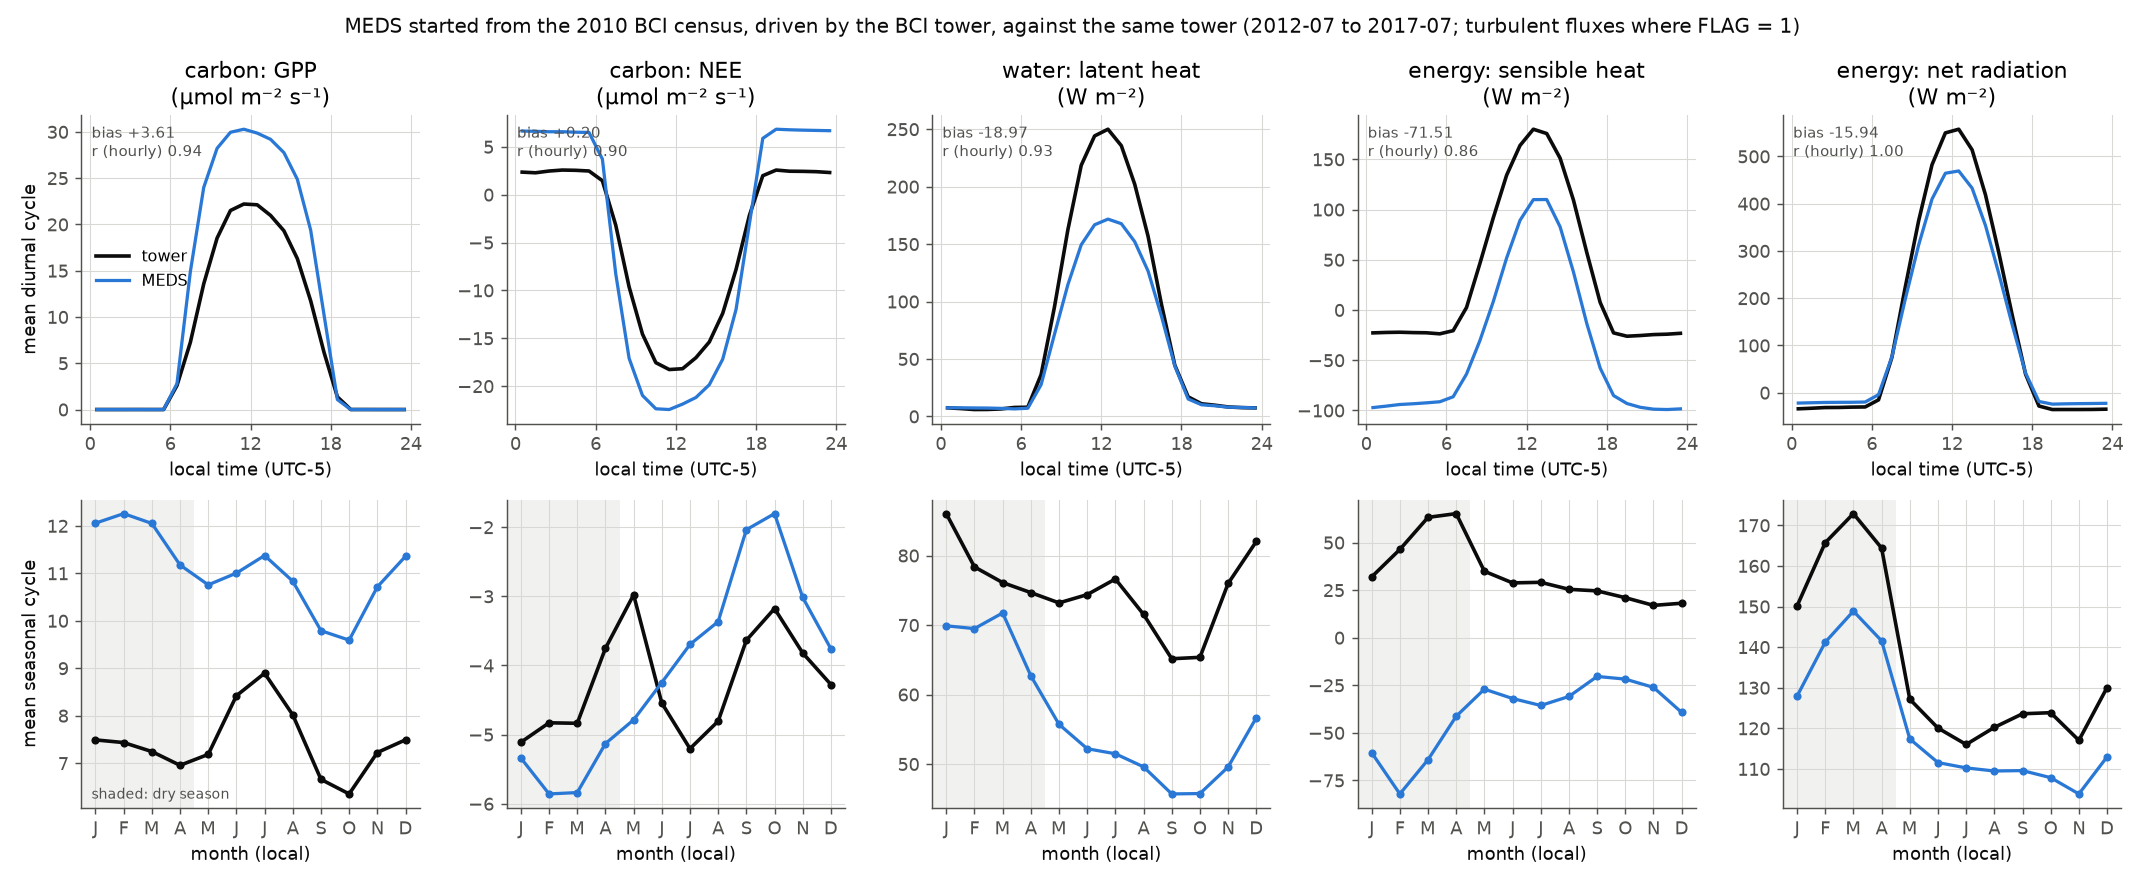
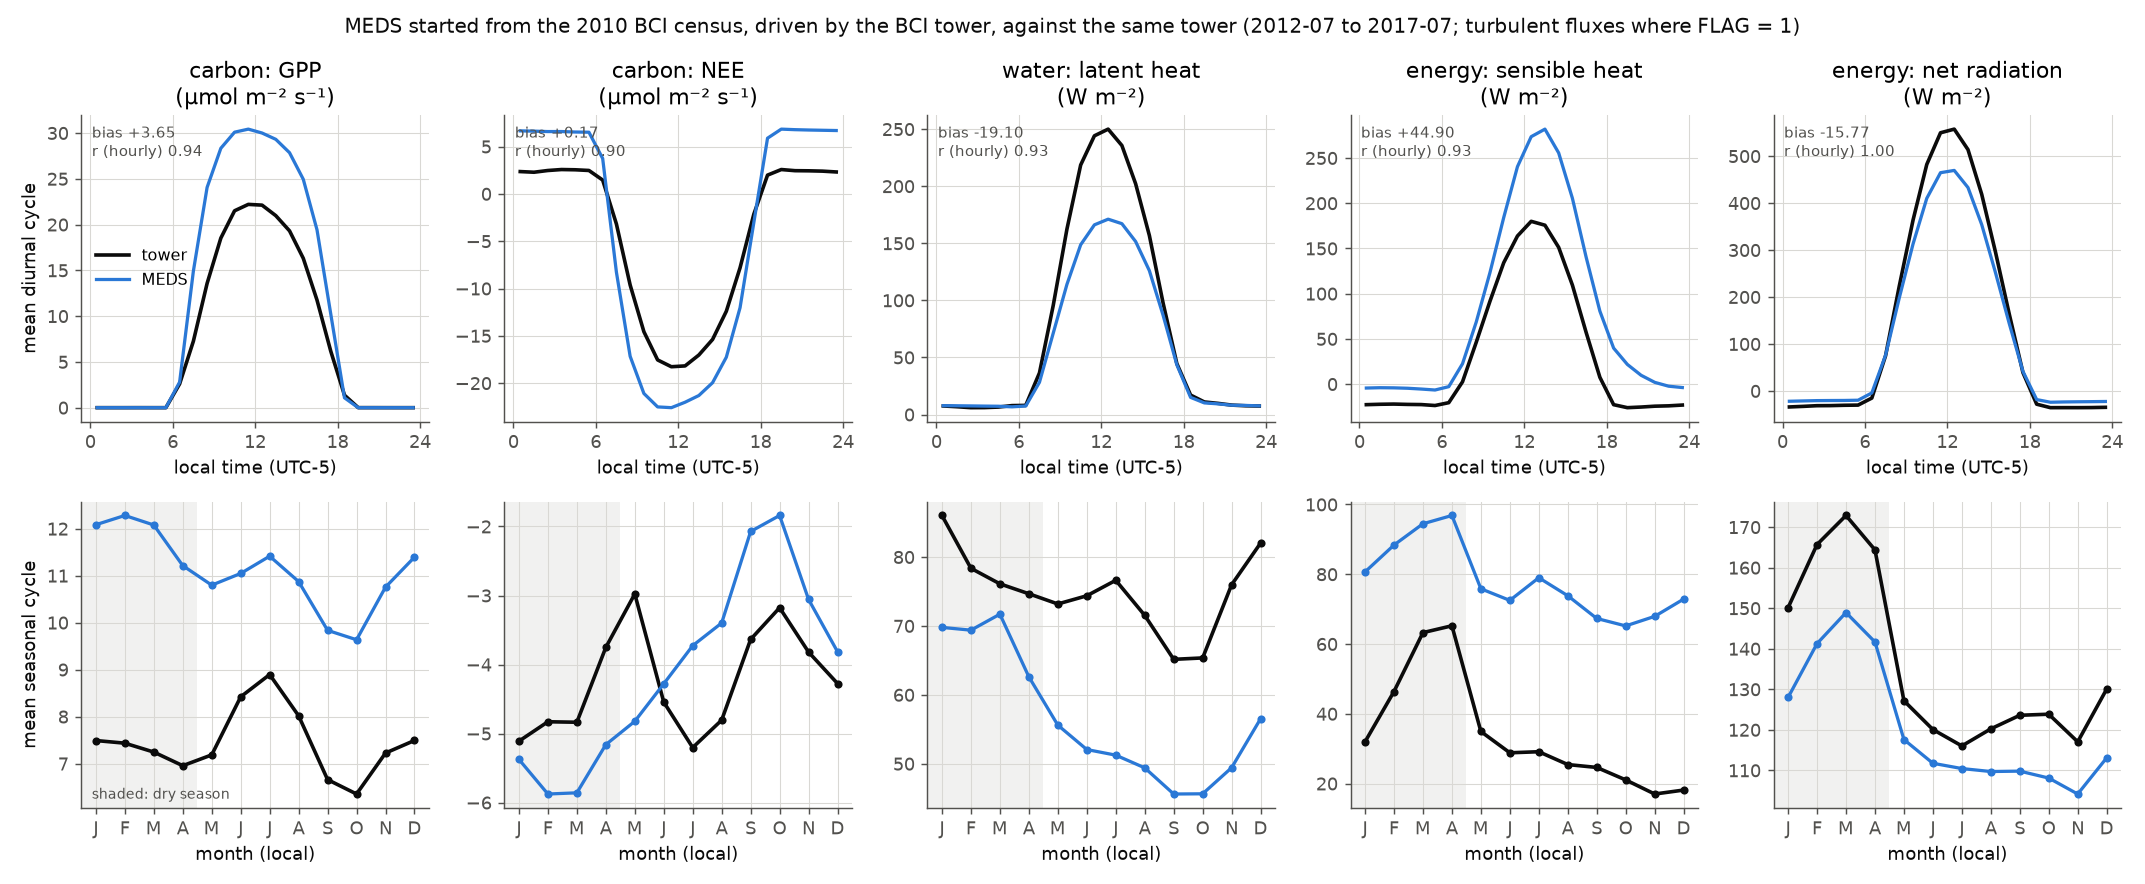
fix(aero): reference both potential temperatures to the canopy-air top
The reference air's potential temperature was T + (g/cp)*zref, referenced
to the ground; the canopy air's was its actual temperature; and the canopy
air's energy budget exchanged heat on the two actual temperatures. So the
reported sensible heat, g_ah*cp*(T_cas - theta_atm), sat g_ah*g*zref below
the flux the budget booked, and every Monin-Obukhov solve saw (g/cp)*zref of
stable stratification that was not there.

zref is the canopy-air top, where met_to_cas_top moves the forcing, so both
potential temperatures are now referenced to it: theta_atm is the air
temperature there. The budgets closed before and still do.

On the five-year BCI census example the mean sensible heat goes from -39.1
to 77.3 W m-2 (tower 32.4), night-time from -95.5 to -0.1 (tower -23.6), and
its seasonal correlation from -0.59 to 0.95. Rnet - H - LE over the five
years falls from +104.6 to -11.4 W m-2. GPP, NEE, latent heat and net
radiation move by less than 1%. The README's results now describe the real
miss, the partition: a midday Bowen ratio of 1.5 against the tower's 0.69.

Tests: test_column_dynamics RUN 5b (neutral surface layer at equal
temperatures; a dark isothermal column reports |H| < 5% of g_ah*g*zref under
ARK and RK45). All four checks fail with the old line.

diff --git a/examples/example_flux_tower_bci/README.md b/examples/example_flux_tower_bci/README.md
@@ -145,7 +145,7 @@ as the census file states, and fuses it to 25 patches and 419 cohorts before the
 count stays above `max_patch = 12` because `patch_light_tol_max` keeps dissimilar patches apart,
 and the run says so at the end. The energy and water budgets close to machine precision.
 
-**The stand over the five years:** LAI falls from 5.6 to 4.8 and AGB rises from 16.1 to 17.5 kgC m⁻²,
+**The stand over the five years:** LAI falls from 5.6 to 4.8 and AGB rises from 16.1 to 17.6 kgC m⁻²,
 and the patches fuse down to 15. The large trees grow and the canopy thins; small trees do not grow
 under this PFT with the default allometry.
 
@@ -153,29 +153,39 @@ under this PFT with the default allometry.
 
 | | tower mean | MEDS mean | bias | r, hourly | r, mean seasonal cycle |
 |---|---|---|---|---|---|
-| GPP [µmol m⁻² s⁻¹] | 7.46 | 11.07 | +3.61 | 0.94 | 0.43 |
-| NEE [µmol m⁻² s⁻¹] | −4.24 | −4.04 | +0.20 | 0.90 | 0.45 |
-| latent heat [W m⁻²] | 75.5 | 56.5 | −19.0 | 0.93 | 0.69 |
-| sensible heat [W m⁻²] | 32.4 | −39.1 | −71.5 | 0.86 | −0.59 |
-| net radiation [W m⁻²] | 136.3 | 120.4 | −16.0 | 1.00 | 0.98 |
+| GPP [µmol m⁻² s⁻¹] | 7.46 | 11.11 | +3.65 | 0.94 | 0.43 |
+| NEE [µmol m⁻² s⁻¹] | −4.24 | −4.07 | +0.17 | 0.90 | 0.45 |
+| latent heat [W m⁻²] | 75.5 | 56.4 | −19.1 | 0.93 | 0.69 |
+| sensible heat [W m⁻²] | 32.4 | 77.3 | +44.9 | 0.93 | 0.95 |
+| net radiation [W m⁻²] | 136.3 | 120.6 | −15.8 | 1.00 | 0.98 |
 
 - **The diurnal cycles** are closely followed in shape (r ≥ 0.99 for every flux) and differ in size.
-  Midday GPP is 30 against the tower's 22 µmol m⁻² s⁻¹, and midday latent heat 164 against 237 W m⁻².
+  Midday GPP is 30 against the tower's 22 µmol m⁻² s⁻¹, and midday latent heat 163 against 237 W m⁻².
 - **Net radiation falls short by day because the canopy reflects too much.** Over the 695 days the
   tower measured all four components, the model's albedo is 0.26 against the tower's 0.13: it
   absorbs 148 W m⁻² of shortwave where the tower's canopy absorbs 173. It emits 10 W m⁻² less
   longwave, which offsets part of that. At night the model reads −22 W m⁻² against the tower's −33.
-- **Sensible heat is the largest miss:** −96 W m⁻² at night against the tower's −23, and 90 at
-  midday against 163. The census canopy is taller than the tower: the canopy-air tops reach 51 m in
-  the tallest patches, above the tower's 41 m, so those patches take forcing moved up from below
-  their own top. Whether that explains the flux is not yet checked.
-- **The seasonal cycles** are weaker: the model's GPP is highest in the dry season, the tower's early
-  in the wet season, and the model's dry-season sensible heat falls where the tower's rises.
+- **The model puts too much of the day's energy into sensible heat and too little into
+  evaporation.** At midday sensible heat is 244 W m⁻² against the tower's 163, and latent heat 163
+  against 237: a Bowen ratio of 1.5 against 0.69. At night sensible heat is near zero against the
+  tower's −24. The tower's own fluxes close only 0.77 of its net radiation, so part of the gap in
+  latent heat is the tower's. The model's friction velocity is about twice the tower's: 0.87 against
+  0.41 m s⁻¹ at night, and 1.0 against 0.6 by day.
+- **The seasonal cycles:** sensible heat follows the tower's, highest in the dry season (r 0.95). GPP
+  is highest in the dry season where the tower's peaks early in the wet season, and latent heat falls
+  through the wet season, to 46 W m⁻², where the tower's stays between 65 and 86.
 
 **Before the longwave columns were corrected** the forcing carried the canopy's emission, 37 W m⁻²
 more than the sky's. That hid the albedo error: net radiation looked right by day (bias +16.7
-overall), night-time net radiation was +6 against the tower's −33, and sensible heat was biased
-−46 W m⁻².
+overall), and night-time net radiation was +6 against the tower's −33.
+
+**Before v0.3.1 the reported sensible heat was about 105 W m⁻² too low.** It measured the canopy air
+against the reference air's potential temperature referenced to the ground, 0.37 K above its actual
+temperature at a 38 m canopy-air top, while the model exchanged heat on the actual temperatures. The
+example then showed a sensible heat of −39 W m⁻², negative at every hour of the night, and the
+reported fluxes left 105 W m⁻² of the net radiation unaccounted for. The same offset made every
+stability solve 0.37 K more stable than the air was. Removing it raised the night-time friction
+velocity from 0.78 to 0.87 m s⁻¹ and moved GPP, NEE, latent heat and net radiation by less than 1%.
 
 ## Files
 

diff --git a/CHANGELOG.md b/CHANGELOG.md
@@ -264,6 +264,36 @@ the top 0.37 m instead of 53%. Delete it to keep the default.
 
 ### Fixed
 
+- **The reported sensible heat was about 100 W m⁻² too low, and every surface-layer solve too
+  stable** (#PRNUM). The reference air's potential temperature was referenced to the ground,
+  `T + (g/cp)·zref`, and the canopy air's was not, while the canopy air's energy budget exchanged heat
+  on the two actual temperatures. So the reported H, `g_ah·cp·(T_cas − θ_atm)`, sat
+  `g_ah·g·zref` below the flux the budget booked, and the Monin–Obukhov solve saw `(g/cp)·zref`
+  (0.37 K at a 38 m canopy-air top) of stable stratification that was not there. Both potential
+  temperatures are now referenced to `zref`, the canopy-air top the forcing is moved to, so each is
+  its actual temperature there (`set_aero_env_atm`; `canopy_aerodynamics.md` §2). The budgets closed
+  before and still do. Every H MEDS reported before this fix is low by `g_ah·g·zref`, with zref the
+  fixed reference height (30 m by default) before 774d040 moved the forcing to each patch's
+  canopy-air top, and that top since.
+  - On the five-year BCI census example:
+
+    | | before | after | tower |
+    |---|---|---|---|
+    | sensible heat, mean [W m⁻²] | −39.1 | 77.3 | 32.4 |
+    | sensible heat, night (19–05 h) | −95.5 | −0.1 | −23.6 |
+    | sensible heat, midday (10–14 h) | 89.7 | 244.2 | 163.0 |
+    | sensible heat, r hourly / r seasonal | 0.86 / −0.59 | 0.93 / 0.95 | |
+    | Rnet − H − LE, all hours, five-year mean | +104.6 | −11.4 | |
+    | friction velocity, night [m s⁻¹] | 0.78 | 0.87 | 0.41 |
+
+    GPP, NEE, latent heat and net radiation move by less than 1%. The miss the example shows is now
+    the partition, not the sign: a midday Bowen ratio of 1.5 against the tower's 0.69, and the
+    README says so.
+  - Tests: `test_column_dynamics` RUN 5b checks that canopy air at the reference air's temperature
+    and humidity is a neutral surface layer with no temperature scale, and that a dark isothermal
+    column reports |H| under 5% of `g_ah·g·zref` under both integrators (−0.4 against 26 W m⁻²).
+    With the old line restored all four checks fail, at H = −16.9 W m⁻².
+
 - **The tissue energy balance gave every leaf and all wood an emissivity of 0.95** (#327). The
   radiation solver takes each PFT's `leaf_emissivity` (0.97 by default) and `wood_emissivity` (0.90) and
   emits at the canopy-air temperature. The energy balance then adds the change in emission for the

diff --git a/docs/science/canopy_aerodynamics.md b/docs/science/canopy_aerodynamics.md
@@ -92,6 +92,16 @@ sub-canopy CO₂ build-up (the tracked BUG8). The kernel also reports the scale 
 $`t_*=\mathrm{temp1}\,\Delta\theta`$, $`q_*=\mathrm{temp2}\,\Delta q`$, $`c_*=\mathrm{temp2}\,\Delta
 C`$, and $`\mathrm{Rib}`$, $\zeta$, $L$ as diagnostics.
 
+**The reference level.** $`z_{ref}`$ is the canopy-air top, where the forcing is moved to
+([forcing](forcing.md) §8), and both potential temperatures are referenced to it: $`\theta_{atm}`$ is
+the air temperature there and $`\theta_{CAS}`$ the canopy-air temperature, so
+$`\Delta\theta = T_{atm} - T_{CAS}`$. That is the difference the canopy air's energy budget
+exchanges, $`g_{ah}\,(h_{CAS}-h_{atm})`$ on actual temperatures, so the reported sensible heat
+$`H = g_{ah}\,c_p\,(T_{CAS}-T_{atm})`$ is the flux the budget books. Before v0.3.1 $`\theta_{atm}`$ was
+referenced to the ground, $`T_{atm}+(g/c_p)\,z_{ref}`$, and $`\theta_{CAS}`$ was not. That added
+$`(g/c_p)\,z_{ref}`$, 0.4 K at a 40 m canopy, of stable stratification to every solve, and lowered the
+reported H by $`g_{ah}\,g\,z_{ref}`$, about 100 W m⁻² at Barro Colorado Island.
+
 ### These three are re-solved at *every integrator stage*, and that is load-bearing
 
 Almost everything the fast loop computes per-cohort — photosynthesis, stomatal conductance, the leaf

diff --git a/docs/science/forcing.md b/docs/science/forcing.md
@@ -423,9 +423,10 @@ T(z_c) = T_m-\frac{g}{c_p}\,(z_c-z_T) \qquad(16)
 
 with $h$ a height above $d$ (a reanalysis's heights already are; a tower's minus $d$), floored at
 $`2z_0`$ like the aerodynamics' own reference height, and $`z_T = d + `$`tq_height` above the zero plane
-or `tq_height` above the ground. A local wind (`"local"`) skips the first factor. Because the
-aerodynamics' potential temperature is $\theta = T + (g/c_p)\,z$ with the same constants, $\theta$ at
-$`z_c`$ is exactly the forcing's. Humidity, pressure, radiation, rain and CO₂ are unchanged — pressure
+or `tq_height` above the ground. A local wind (`"local"`) skips the first factor. The move
+conserves potential temperature, $\theta = T + (g/c_p)\,z$. The aerodynamics then references both the
+canopy air's potential temperature and this air's to $`z_c`$, where each equals its actual temperature
+([canopy aerodynamics](canopy_aerodynamics.md) §2). Humidity, pressure, radiation, rain and CO₂ are unchanged — pressure
 stays at the ground, where the canopy air, ground and leaves use it — and $`\rho_{air}`$ is re-derived.
 The aerodynamics then runs from $`z_c`$: there is no fixed reference height, and nothing has to clear the
 canopy.
